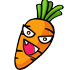
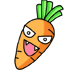
Implement BossEnemy.Add animation to PiggyBird. Fix carrot picture.

diff --git a/src/logic/GameLogic.java b/src/logic/GameLogic.java
@@ -10,60 +10,78 @@ import res.Resource;
 public class GameLogic {
 
 	private static GameLogic instance = new GameLogic();
-	protected Player player = new Player(60,60,0,0,0,0.25,1,Resource.character);
+	protected Player player = new Player(60, 60, 0, 0, 0, 0.25, 1, Resource.character);
 	protected static List<ScreenObject> screenObjects = new CopyOnWriteArrayList<>();
 	private int spawnDelay = 250;
 	private int spawnDelayCounter = 0;
 	protected int enemyCount = 0;
-	
+	private boolean isBossAppeared = false;
+
 	public static GameLogic getInstance() {
 		return instance;
 	}
-	
+
 	public GameLogic() {
 		RenderableHolder.getInstance().add(player);
-		//RenderableHolder.getInstance().add(playerStatus);
+		// RenderableHolder.getInstance().add(playerStatus);
 	}
-	
+
 	public void logicUpdate() {
 		player.update();
-		
-		for(ScreenObject object : screenObjects){
-			if(object.isDestroyed()){
+		if (enemyCount > 40) {
+			isBossAppeared = true;
+			Enemy boss = new BossEnemy(GameWindow.SCREEN_WIDTH , 150 , -2 , 0 ,0 ,0 ,1 , Resource.boss);
+			screenObjects.add(boss);
+			RenderableHolder.getInstance().add(boss);
+			enemyCount = 0;
+		} else if (enemyCount > 30) {
+			spawnDelay = 150;
+		} else if (enemyCount > 20) {
+			spawnDelay = 180;
+		} else if (enemyCount > 10) {
+			spawnDelay = 210;
+		} else {
+
+		}
+
+		for (ScreenObject object : screenObjects) {
+			if (object.isDestroyed()) {
 				screenObjects.remove(object);
 				RenderableHolder.getInstance().getRenderableList().remove(object);
 			}
 		}
-		
-		for(ScreenObject object : screenObjects){
+
+		for (ScreenObject object : screenObjects) {
 			object.update();
 		}
-		
-		if(spawnDelayCounter < spawnDelay){
-			spawnDelayCounter++;
+
+		if (!isBossAppeared) {
+			if (spawnDelayCounter < spawnDelay) {
+				spawnDelayCounter++;
+			} else {
+				int spawn = RandomUtility.randomEnemySpawn();
+				if (spawn == 1) {
+					Enemy e = new NormalEnemy(GameWindow.SCREEN_WIDTH, RandomUtility.randomStartY(), -3, 0, 0, 0, 1,
+							Resource.lemon);
+					screenObjects.add(e);
+					RenderableHolder.getInstance().add(e);
+				} else if (spawn == 2) {
+					Enemy e = new RushEnemy(GameWindow.SCREEN_WIDTH, RandomUtility.randomStartY(), -1, 0, -0.15, 0, 1,
+							Resource.carrot);
+					screenObjects.add(e);
+					RenderableHolder.getInstance().add(e);
+				} else {
+					Enemy e = new HomingEnemy(GameWindow.SCREEN_WIDTH, RandomUtility.randomStartY(), -2, 0, 0, 0, 1,
+							Resource.tomato);
+					screenObjects.add(e);
+					RenderableHolder.getInstance().add(e);
+				}
+				spawnDelayCounter = 0;
+			}
 		}
-		else{
-			int spawn = RandomUtility.randomEnemySpawn();
-			if(spawn==1){
-				Enemy e = new NormalEnemy(GameWindow.SCREEN_WIDTH , RandomUtility.randomStartY() , -3 , 0 ,0 ,0 ,1 ,Resource.lemon);
-				screenObjects.add(e);
-				RenderableHolder.getInstance().add(e);
-			}
-			else if(spawn==2){
-				Enemy e = new RushEnemy(GameWindow.SCREEN_WIDTH , RandomUtility.randomStartY() , -1 , 0 ,-0.15 ,0 ,1 ,Resource.carrot);
-				screenObjects.add(e);
-				RenderableHolder.getInstance().add(e);
-			}
-			else{
-				Enemy e = new HomingEnemy(GameWindow.SCREEN_WIDTH , RandomUtility.randomStartY() , -2 , 0 , 0 , 0 ,1 ,Resource.tomato);
-				screenObjects.add(e);
-				RenderableHolder.getInstance().add(e);
-			}
-			spawnDelayCounter = 0;
-		}
-		
-		for(ScreenObject object : screenObjects){
-			if(object.x < -70){
+
+		for (ScreenObject object : screenObjects) {
+			if (object.x < -70) {
 				object.isDestroyed = true;
 			}
 		}

diff --git a/src/logic/Player.java b/src/logic/Player.java
@@ -6,6 +6,7 @@ import java.awt.event.KeyEvent;
 import java.awt.geom.AffineTransform;
 import java.awt.image.BufferedImage;
 
+import gui.GameWindow;
 import gui.InputUtility;
 import res.Resource;
 
@@ -13,16 +14,20 @@ public class Player extends Character {
 	
 	private final int defaultSpeedY = -7; // set it later
 	private double rotateDegree = 0;
+	private int currentFrame , frameWidth ,frameDelayCounter;
+	private final int frameDelay = 10; 
 	
 	public Player(double x, double y, double speedX, double speedY, double accelX, double accelY, int maxHp, BufferedImage image) {
 		super(x, y, speedX, speedY, accelX, accelY, maxHp, image);
 		// TODO Auto-generated constructor stub
+		this.currentFrame = 0;
+		this.frameWidth = image.getWidth()/4;
+		this.frameDelayCounter = 0;
 	}
 
 	public Player(double x, double y, double speedX, double speedY, int maxHp, BufferedImage image) {
 		super(x, y, speedX, speedY, maxHp, image);
 		// TODO Auto-generated constructor stub
-		
 	}
 	
 	public void shoot() {
@@ -39,6 +44,12 @@ public class Player extends Character {
 	public void update()
 	{
 		super.update();
+		if(this.y < 0){
+			this.y = 0;
+		}
+		if(this.y > GameWindow.SCREEN_HEIGHT-100){
+			this.y = GameWindow.SCREEN_HEIGHT-100;
+		}
 		if (InputUtility.getKeyTriggered(KeyEvent.VK_SPACE))
 		{
 			this.speedY = defaultSpeedY;
@@ -48,6 +59,15 @@ public class Player extends Character {
 		{
 			shoot();
 		}
+		if(frameDelayCounter < frameDelay){
+			frameDelayCounter++;
+			return;
+		}
+		currentFrame++;
+		if(currentFrame == 4){
+			currentFrame = 0;
+		}
+		frameDelayCounter = 0;
 		//rotateDegree = speedY * 2; // set it later
 	}
 
@@ -62,7 +82,7 @@ public class Player extends Character {
 		// TODO Auto-generated method stub
 		//AffineTransform a = new AffineTransform();
 		//a.rotate(rotateDegree);
-		g2d.drawImage(this.getImage(), null, (int)this.x, (int)this.y);
+		g2d.drawImage(getImage().getSubimage(frameWidth*currentFrame, 0, frameWidth, getImage().getHeight()), null, (int)this.x, (int)this.y);
 	}
 }
 	

diff --git a/src/res/Resource.java b/src/res/Resource.java
@@ -29,7 +29,7 @@ public class Resource {
 			ClassLoader loader = Resource.class.getClassLoader();
 			try {
 				background = ImageIO.read(loader.getResource("res/PiggyBirdBG.png"));
-				character = ImageIO.read(loader.getResource("res/PiggyBirdChar2.gif"));
+				character = ImageIO.read(loader.getResource("res/PiggyBirdChar3.png"));
 				logo =  ImageIO.read(loader.getResource("res/Logo.png"));
 				lemon = ImageIO.read(loader.getResource("res/lemon.png"));
 				carrot = ImageIO.read(loader.getResource("res/carrot.png"));

diff --git a/src/gui/GameScreen.java b/src/gui/GameScreen.java
@@ -112,7 +112,7 @@ public class GameScreen extends JPanel{
 			g2d.clearRect(0, 0, GameWindow.SCREEN_WIDTH, GameWindow.SCREEN_HEIGHT);
 			g2d.setComposite(gameBackground.transcluentBlack);
 			gameBackground.draw(g2d);
-			g2d.drawImage(Resource.character, null, 60, 60);
+			g2d.drawImage(Resource.character.getSubimage(0, 0, 70, 70), null, 60, 60);
 			g2d.setComposite(gameBackground.opaque);
 			if(startDelayCounter < startDelay && countDownNumber==4){
 				startDelayCounter++;
